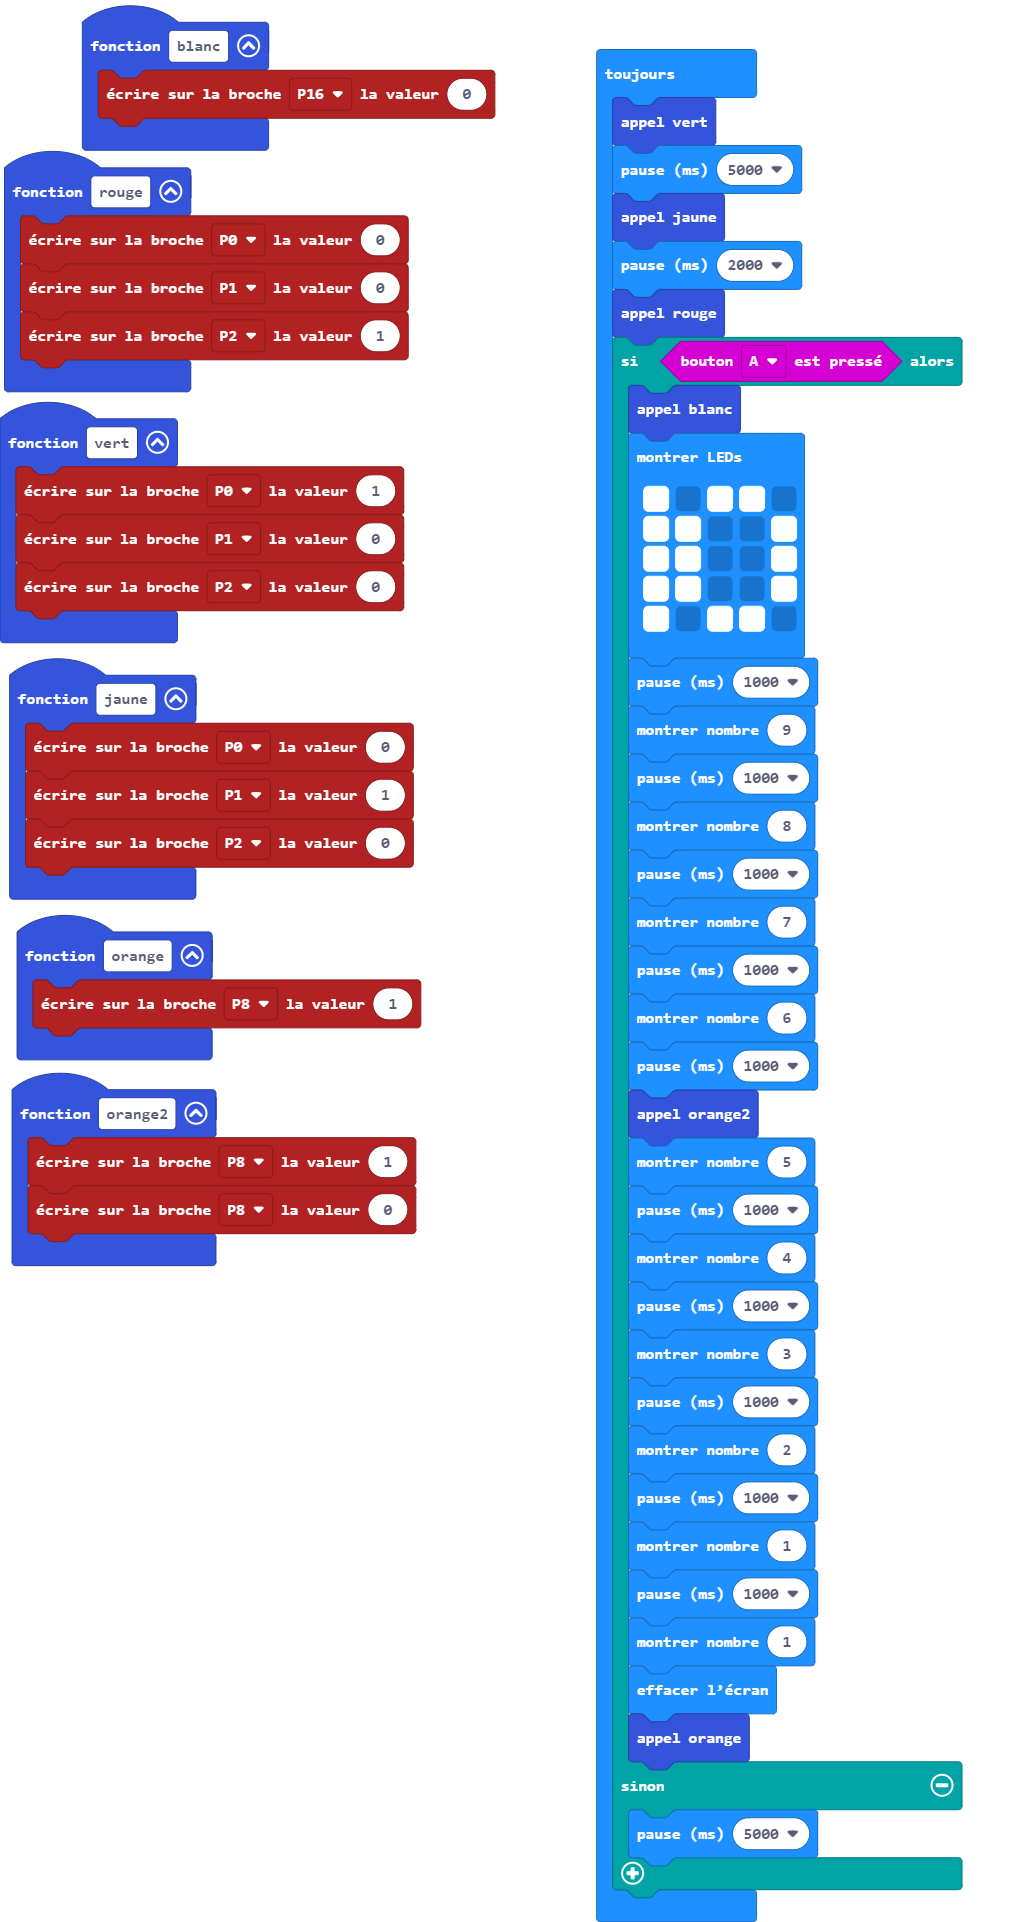
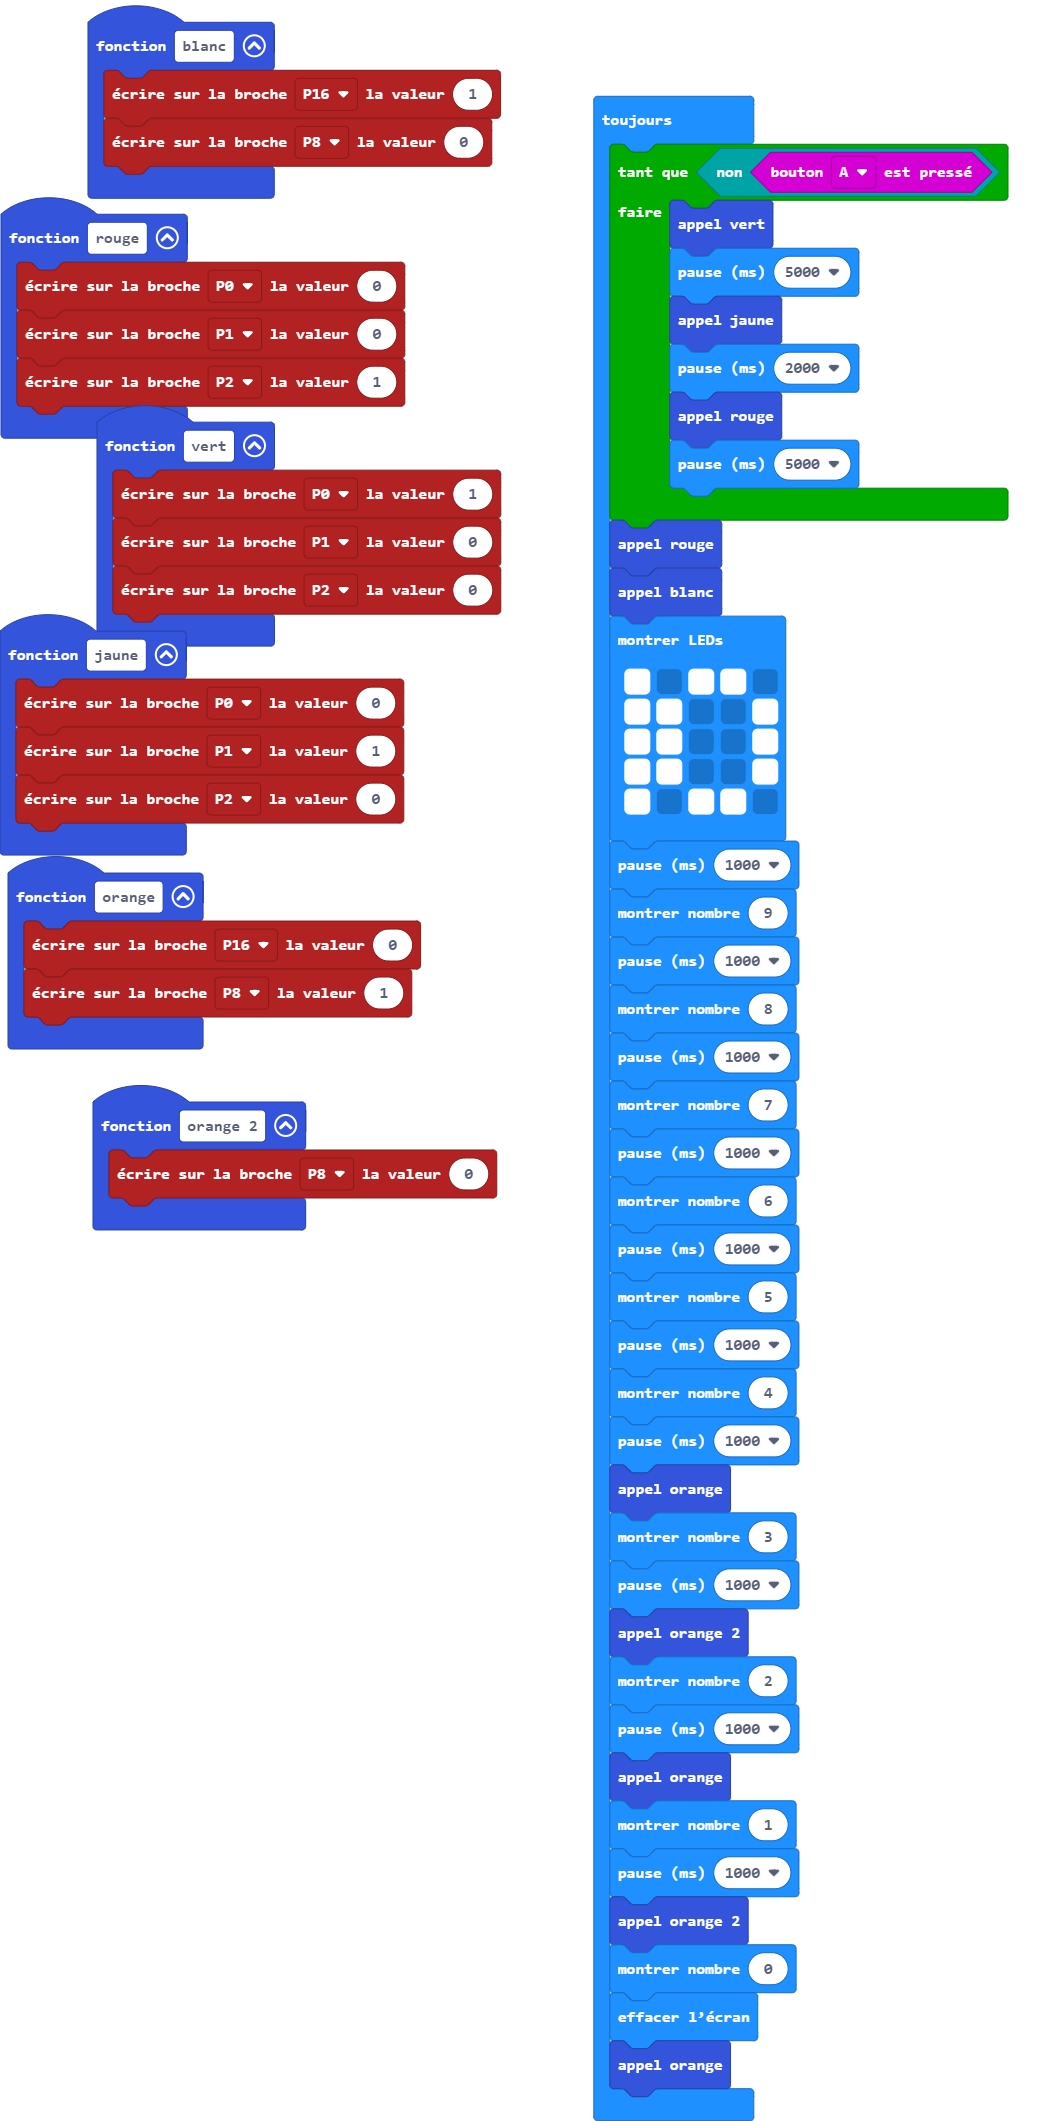
Mise à jour main.blocks, main.ts

diff --git a/main.ts b/main.ts
@@ -3,14 +3,15 @@ function jaune () {
     pins.digitalWritePin(DigitalPin.P1, 1)
     pins.digitalWritePin(DigitalPin.P2, 0)
 }
-function orange2 () {
-    pins.digitalWritePin(DigitalPin.P8, 1)
+function orange_2 () {
     pins.digitalWritePin(DigitalPin.P8, 0)
 }
 function blanc () {
-    pins.digitalWritePin(DigitalPin.P16, 0)
+    pins.digitalWritePin(DigitalPin.P16, 1)
+    pins.digitalWritePin(DigitalPin.P8, 0)
 }
 function orange () {
+    pins.digitalWritePin(DigitalPin.P16, 0)
     pins.digitalWritePin(DigitalPin.P8, 1)
 }
 function rouge () {
@@ -24,44 +25,47 @@ function vert () {
     pins.digitalWritePin(DigitalPin.P2, 0)
 }
 basic.forever(function () {
-    vert()
-    basic.pause(5000)
-    jaune()
-    basic.pause(2000)
-    rouge()
-    if (input.buttonIsPressed(Button.A)) {
-        blanc()
-        basic.showLeds(`
-            # . # # .
-            # # . . #
-            # # . . #
-            # # . . #
-            # . # # .
-            `)
-        basic.pause(1000)
-        basic.showNumber(9)
-        basic.pause(1000)
-        basic.showNumber(8)
-        basic.pause(1000)
-        basic.showNumber(7)
-        basic.pause(1000)
-        basic.showNumber(6)
-        basic.pause(1000)
-        orange2()
-        basic.showNumber(5)
-        basic.pause(1000)
-        basic.showNumber(4)
-        basic.pause(1000)
-        basic.showNumber(3)
-        basic.pause(1000)
-        basic.showNumber(2)
-        basic.pause(1000)
-        basic.showNumber(1)
-        basic.pause(1000)
-        basic.showNumber(1)
-        basic.clearScreen()
-        orange()
-    } else {
+    while (!(input.buttonIsPressed(Button.A))) {
+        vert()
+        basic.pause(5000)
+        jaune()
+        basic.pause(2000)
+        rouge()
         basic.pause(5000)
     }
+    rouge()
+    blanc()
+    basic.showLeds(`
+        # . # # .
+        # # . . #
+        # # . . #
+        # # . . #
+        # . # # .
+        `)
+    basic.pause(1000)
+    basic.showNumber(9)
+    basic.pause(1000)
+    basic.showNumber(8)
+    basic.pause(1000)
+    basic.showNumber(7)
+    basic.pause(1000)
+    basic.showNumber(6)
+    basic.pause(1000)
+    basic.showNumber(5)
+    basic.pause(1000)
+    basic.showNumber(4)
+    basic.pause(1000)
+    orange()
+    basic.showNumber(3)
+    basic.pause(1000)
+    orange_2()
+    basic.showNumber(2)
+    basic.pause(1000)
+    orange()
+    basic.showNumber(1)
+    basic.pause(1000)
+    orange_2()
+    basic.showNumber(0)
+    basic.clearScreen()
+    orange()
 })
